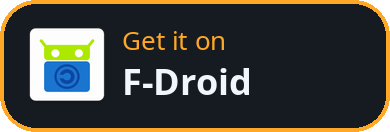
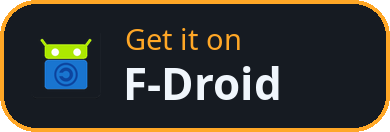
README: the F-Droid and Obtainium buttons match the other store buttons, same size and lettering

Changed region(s): [[0.0615, 0.2121, 0.2769, 0.7879], [0.3077, 0.4848, 0.7385, 0.7576], [0.3077, 0.2121, 0.6154, 0.3939]]

diff --git a/README.md b/README.md
@@ -163,7 +163,7 @@ It runs on ARM phones and tablets, and on Intel and AMD devices too, such as Way
 [Obtainium](https://github.com/ImranR98/Obtainium) watches this repository and
 installs each new release for you.
 
-<a href="https://apps.obtainium.imranr.dev/redirect?r=obtainium://app/%7B%22id%22%3A%22com.blazify.music%22%2C%22url%22%3A%22https%3A%2F%2Fgithub.com%2Frajendra7169%2Fblazify%22%2C%22author%22%3A%22rajendra7169%22%2C%22name%22%3A%22Blazify%22%7D"><img src="https://github.com/ImranR98/Obtainium/blob/main/assets/graphics/badge_obtainium.png?raw=true" alt="Get it on Obtainium" height="48"></a>
+<a href="https://apps.obtainium.imranr.dev/redirect?r=obtainium://app/%7B%22id%22%3A%22com.blazify.music%22%2C%22url%22%3A%22https%3A%2F%2Fgithub.com%2Frajendra7169%2Fblazify%22%2C%22author%22%3A%22rajendra7169%22%2C%22name%22%3A%22Blazify%22%7D"><img src="docs/assets/buttons/store-obtainium.png" width="130" alt="Get it on Obtainium" /></a>
 
 Tap that on your phone, or add `https://github.com/rajendra7169/blazify` in
 Obtainium by hand. Blazify updates itself too; this is for people who prefer
